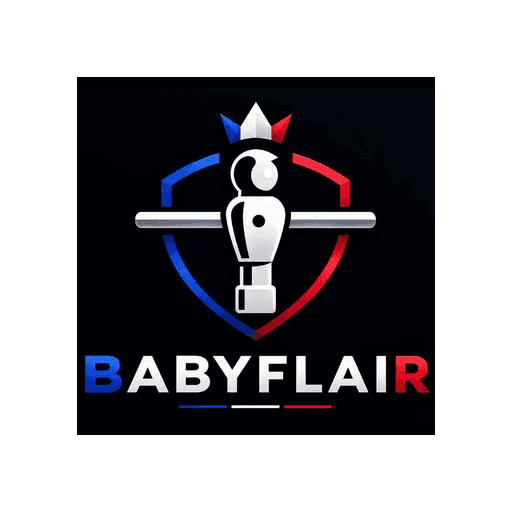
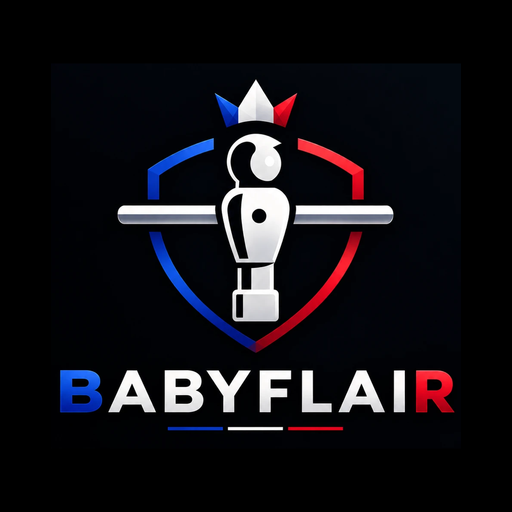
feat: mise à jour forcée par double-tap sur le blason, icônes plein cadre, date de version

diff --git a/src/App.tsx b/src/App.tsx
@@ -8,6 +8,7 @@ import { Toast } from './components/Toast'
 import { IconButton } from './components/Button'
 import { Help, Settings } from './components/icons'
 import { hrefOf, useRoute } from './router'
+import { checkForUpdate, UPDATE_TOASTS } from './update'
 import type { Route } from './router'
 import { AppStateProvider, isGateNeeded, useAppState } from './store'
 import type { Format } from './types'
@@ -54,12 +55,17 @@ function Screen({ route }: { route: Route }): ReactNode {
 
 /** Header per route (spec §2 table). Pushed screens get the back chevron; tab roots get at most one icon button. */
 function AppHeader({ route }: { route: Route }) {
-  const { store, draft, draftDispatch } = useAppState()
+  const { store, draft, draftDispatch, toast } = useAppState()
+  const showToast = toast.show
+  function onBrandDoubleTap(): void {
+    void checkForUpdate().then((outcome) => showToast({ text: UPDATE_TOASTS[outcome] }))
+  }
 
   switch (route.name) {
     case 'classement':
       return (
         <Header
+          onBrandDoubleTap={onBrandDoubleTap}
           title="Classement"
           right={
             <IconButton label="Comment ça marche" href={hrefOf({ name: 'comment-ca-marche' })}>
@@ -71,6 +77,7 @@ function AppHeader({ route }: { route: Route }) {
     case 'match':
       return (
         <Header
+          onBrandDoubleTap={onBrandDoubleTap}
           title="BabyFlair"
           compact
           right={
@@ -86,12 +93,13 @@ function AppHeader({ route }: { route: Route }) {
     case 'match-edit':
       return <Header title="Modifier le match" back />
     case 'historique':
-      return <Header title="Historique" />
+      return <Header title="Historique" onBrandDoubleTap={onBrandDoubleTap} />
     case 'match-detail':
       return <Header title="Match" back />
     case 'joueurs':
       return (
         <Header
+          onBrandDoubleTap={onBrandDoubleTap}
           title="Joueurs"
           right={
             <IconButton label="Réglages" href={hrefOf({ name: 'reglages' })}>

diff --git a/src/update.ts b/src/update.ts
@@ -1,0 +1,41 @@
+// Mise à jour forcée (double-tap sur le blason) : vérifie le service worker, active la nouvelle version et recharge.
+export type UpdateOutcome = 'reloading' | 'latest' | 'unsupported'
+
+type RegistrationLike = {
+  update: () => Promise<unknown>
+  waiting: { postMessage: (message: unknown) => void } | null
+  installing: unknown
+}
+
+export const UPDATE_TOASTS: Record<UpdateOutcome, string> = {
+  reloading: 'Mise à jour en cours…',
+  latest: 'Tu as déjà la dernière version',
+  unsupported: 'Rechargement…',
+}
+
+/** Pure decision: with a waiting worker the page must be reloaded; nothing waiting means the version is current. */
+export function outcomeFor(registration: RegistrationLike | undefined): UpdateOutcome {
+  if (registration === undefined) return 'unsupported'
+  if (registration.waiting !== null || registration.installing !== null) return 'reloading'
+  return 'latest'
+}
+
+export async function checkForUpdate(
+  getRegistration: () => Promise<RegistrationLike | undefined> = defaultRegistration,
+  reload: () => void = () => window.location.reload(),
+): Promise<UpdateOutcome> {
+  const registration = await getRegistration()
+  if (registration !== undefined) await registration.update().catch(() => undefined)
+  const outcome = outcomeFor(registration)
+  if (outcome === 'latest') return outcome
+  registration?.waiting?.postMessage({ type: 'SKIP_WAITING' })
+  // Give the new worker a moment to take control, then reload with the fresh assets.
+  setTimeout(reload, outcome === 'reloading' ? 800 : 0)
+  return outcome
+}
+
+async function defaultRegistration(): Promise<RegistrationLike | undefined> {
+  if (typeof navigator === 'undefined' || !('serviceWorker' in navigator)) return undefined
+  const registration = await navigator.serviceWorker.getRegistration()
+  return registration ?? undefined
+}

diff --git a/src/components/Header.tsx b/src/components/Header.tsx
@@ -11,6 +11,8 @@ export type HeaderProps = {
   right?: ReactNode
   /** Match screen: « BabyFlair » 15 px / 600 in --text-2 on the left, `right` on the right (spec §2). */
   compact?: boolean
+  /** Double-tap on the brand mark (every tab root and the Match header): forces an app update. */
+  onBrandDoubleTap?: () => void
 }
 
 function headerClass(isBack: boolean, compact: boolean): string {
@@ -19,7 +21,7 @@ function headerClass(isBack: boolean, compact: boolean): string {
   return 'header header-root'
 }
 
-export function Header({ title, back: isBack = false, right, compact = false }: HeaderProps) {
+export function Header({ title, back: isBack = false, right, compact = false, onBrandDoubleTap }: HeaderProps) {
   return (
     <header className={headerClass(isBack, compact)}>
       <div className="header-inner">
@@ -30,13 +32,13 @@ export function Header({ title, back: isBack = false, right, compact = false }: 
         )}
         {compact ? (
           <span className="header-brand">
-            <img className="header-brand-mark" src={`${import.meta.env.BASE_URL}logo-mark.png`} alt="" width="26" height="26" />
+            <img className="header-brand-mark" src={`${import.meta.env.BASE_URL}logo-mark.png`} alt="" width="26" height="26" onDoubleClick={onBrandDoubleTap} />
             {title}
           </span>
         ) : (
           <h1 className="header-title">
             {!isBack && (
-              <img className="header-brand-mark" src={`${import.meta.env.BASE_URL}logo-mark.png`} alt="" width="28" height="28" />
+              <img className="header-brand-mark" src={`${import.meta.env.BASE_URL}logo-mark.png`} alt="" width="28" height="28" onDoubleClick={onBrandDoubleTap} />
             )}
             {title}
           </h1>

diff --git a/src/update.test.ts b/src/update.test.ts
@@ -1,0 +1,35 @@
+import { describe, expect, it, vi } from 'vitest'
+import { checkForUpdate, outcomeFor } from './update'
+
+const reg = (waiting: boolean, installing = false) => ({
+  update: vi.fn(async () => undefined),
+  waiting: waiting ? { postMessage: vi.fn() } : null,
+  installing: installing ? {} : null,
+})
+
+describe('update', () => {
+  it('decides from the registration state', () => {
+    expect(outcomeFor(undefined)).toBe('unsupported')
+    expect(outcomeFor(reg(false))).toBe('latest')
+    expect(outcomeFor(reg(true))).toBe('reloading')
+    expect(outcomeFor(reg(false, true))).toBe('reloading')
+  })
+
+  it('checks, skips waiting and reloads when a new worker exists', async () => {
+    vi.useFakeTimers()
+    const r = reg(true)
+    const reload = vi.fn()
+    expect(await checkForUpdate(async () => r, reload)).toBe('reloading')
+    expect(r.update).toHaveBeenCalled()
+    expect(r.waiting?.postMessage).toHaveBeenCalledWith({ type: 'SKIP_WAITING' })
+    vi.runAllTimers()
+    expect(reload).toHaveBeenCalled()
+    vi.useRealTimers()
+  })
+
+  it('does not reload when already up to date', async () => {
+    const reload = vi.fn()
+    expect(await checkForUpdate(async () => reg(false), reload)).toBe('latest')
+    expect(reload).not.toHaveBeenCalled()
+  })
+})

diff --git a/src/io.ts b/src/io.ts
@@ -9,6 +9,13 @@ export { matchesSinceExport }
 import type { Match, Store } from './types'
 
 export const APP_VERSION = '1.0.0'
+
+/** « 12 oct. 11:52 » : la date du build, injectée par Vite ; sert à vérifier qu'un téléphone est à jour. */
+export function buildLabel(buildDate: string = typeof __BUILD_DATE__ === 'string' ? __BUILD_DATE__ : ''): string {
+  const time = Date.parse(buildDate)
+  if (Number.isNaN(time)) return APP_VERSION
+  return new Intl.DateTimeFormat('fr-FR', { day: 'numeric', month: 'short', hour: '2-digit', minute: '2-digit' }).format(time)
+}
 export const EXPORT_MIME = 'application/json'
 
 const EXPORT_NUDGE_MATCHES = 30
@@ -173,7 +180,7 @@ function footerStorage(sync: FooterSync | undefined): string {
 export function settingsFooter(store: Counts, sync?: FooterSync): string {
   const players = plural(store.players.length, 'joueur')
   const matches = plural(store.matches.length, 'match')
-  return `BabyFlair ${APP_VERSION} · ${players} · ${matches} · ${footerStorage(sync)}`
+  return `BabyFlair · version du ${buildLabel()} · ${players} · ${matches} · ${footerStorage(sync)}`
 }
 
 export type StandaloneEnv = {

diff --git a/src/io.test.ts b/src/io.test.ts
@@ -16,6 +16,7 @@ import {
   matchesSinceExport,
   parseImport,
   settingsFooter,
+  buildLabel,
   shareFilesWith,
 } from './io'
 import type { Match, Player, Store } from './types'
@@ -353,10 +354,12 @@ describe('importSummary', () => {
 // ---------------------------------------------------------------------------
 
 describe('settingsFooter', () => {
-  it('shows the version and both counts', () => {
+  it('shows the build date and both counts', () => {
     expect(APP_VERSION).toBe('1.0.0')
     const text = settingsFooter({ players: arr(12), matches: arr(148) })
-    expect(text).toBe('BabyFlair 1.0.0 · 12 joueurs · 148 matchs · données sur cet appareil uniquement')
+    expect(text).toBe(`BabyFlair · version du ${buildLabel()} · 12 joueurs · 148 matchs · données sur cet appareil uniquement`)
+    expect(buildLabel('2026-10-12T09:52:00Z')).toMatch(/oct./)
+    expect(buildLabel('')).toBe('1.0.0')
   })
 
   it('uses the singular for 1', () => {

diff --git a/vite.config.ts b/vite.config.ts
@@ -5,13 +5,14 @@ import { defineConfig } from 'vite'
 
 // https://vite.dev/config/
 export default defineConfig({
+  define: { __BUILD_DATE__: JSON.stringify(new Date().toISOString()) },
   // Served from https://ha603438.github.io/babyflair/ (GitHub Pages); the hash router keeps every route under it.
   base: '/babyflair/',
   plugins: [
     react(),
     VitePWA({
       registerType: 'autoUpdate',
-      includeAssets: ['logo.png', 'logo-mark.png', 'apple-touch-icon-180x180.png', 'favicon.ico'],
+      includeAssets: ['logo.png', 'logo-mark.png', 'apple-touch-icon-180x180.png', 'favicon-48.png'],
       manifest: {
         name: 'BabyFlair',
         short_name: 'BabyFlair',

diff --git a/index.html b/index.html
@@ -9,7 +9,7 @@
     <meta name="apple-mobile-web-app-capable" content="yes" />
     <meta name="apple-mobile-web-app-status-bar-style" content="default" />
     <meta name="apple-mobile-web-app-title" content="BabyFlair" />
-    <link rel="icon" href="./favicon.ico" sizes="any" />
+    <link rel="icon" type="image/png" href="./favicon-48.png" />
     <link rel="apple-touch-icon" href="./apple-touch-icon-180x180.png" />
     <title>BabyFlair</title>
   </head>

diff --git a/src/vite-env.d.ts b/src/vite-env.d.ts
@@ -9,3 +9,6 @@ interface ImportMetaEnv {
 interface ImportMeta {
   readonly env: ImportMetaEnv
 }
+
+/** Injected by vite.config.ts at build time (ISO date). */
+declare const __BUILD_DATE__: string
